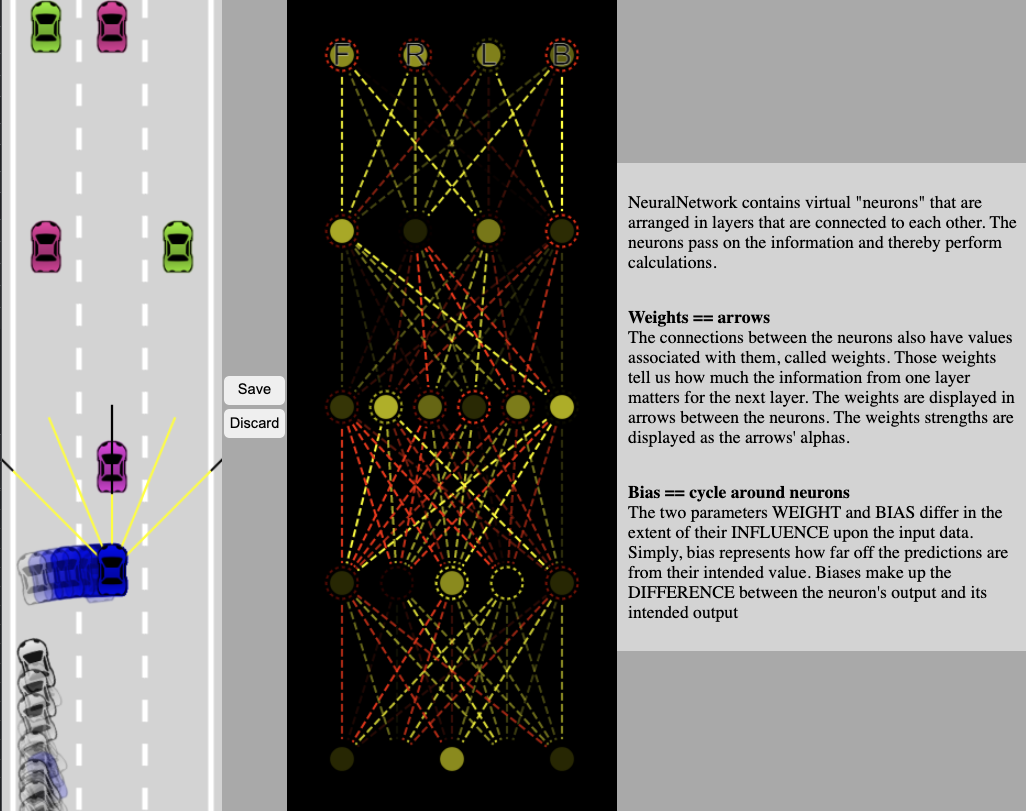
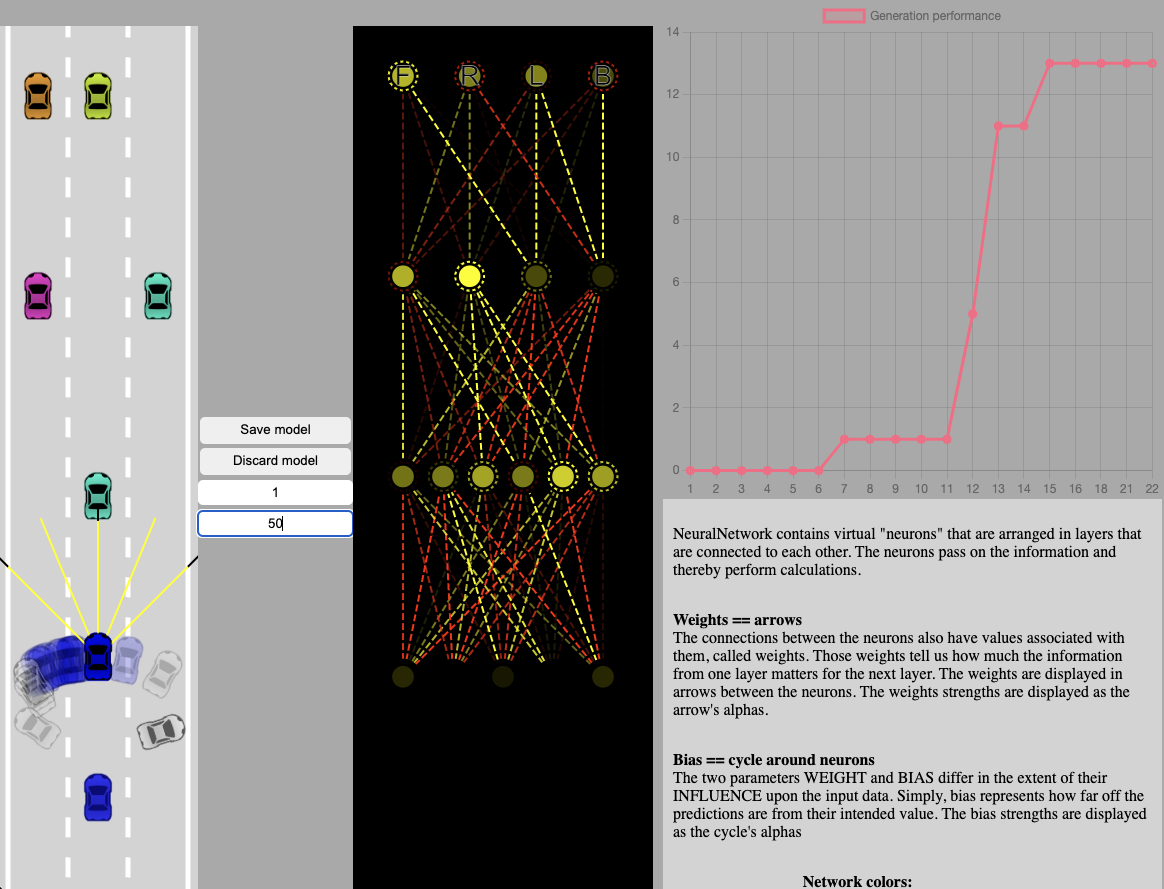
Add generation performance chart

diff --git a/index.html b/index.html
@@ -12,29 +12,33 @@
     <input id="population" placeholder="Total of population" onkeyup="updatePopulation(this)">
 </div>
 <canvas id="networkCanvas"></canvas>
-<div id="nn-info">
-    <p>
-        NeuralNetwork contains virtual "neurons" that are arranged in layers that are connected to each other. The neurons pass on the information and thereby perform calculations.
-    </p>
-    <p>
-        <strong>Weights == arrows</strong> <br>
-        The connections between the neurons also have values associated with them, called weights.
-        Those weights tell us how much the information from one layer matters for the next layer.
-        The weights are displayed in arrows between the neurons. The weights strengths are displayed
-        as the arrow's alphas.
-    </p>
-    <p>
-        <strong>Bias == cycle around neurons</strong> <br>
-        The two parameters WEIGHT and BIAS differ in the extent of their INFLUENCE upon the input data.
-        Simply, bias represents how far off the predictions are from their intended value.
-        The bias strengths are displayed as the cycle's alphas
-    </p>
+<section style="padding: 10px">
+    <canvas id="myChart" width="400" height="400"></canvas>
+    <div id="nn-info">
+        <p>
+            NeuralNetwork contains virtual "neurons" that are arranged in layers that are connected to each other. The neurons pass on the information and thereby perform calculations.
+        </p>
+        <p>
+            <strong>Weights == arrows</strong> <br>
+            The connections between the neurons also have values associated with them, called weights.
+            Those weights tell us how much the information from one layer matters for the next layer.
+            The weights are displayed in arrows between the neurons. The weights strengths are displayed
+            as the arrow's alphas.
+        </p>
+        <p>
+            <strong>Bias == cycle around neurons</strong> <br>
+            The two parameters WEIGHT and BIAS differ in the extent of their INFLUENCE upon the input data.
+            Simply, bias represents how far off the predictions are from their intended value.
+            The bias strengths are displayed as the cycle's alphas
+        </p>
 
-    <p><strong>Network colors:</strong> <br>
-        RED elements are negative values<br>
-        YELLOW are positive values
-    </p>
-</div>
+        <p><strong>Network colors:</strong> <br>
+            RED elements are negative values<br>
+            YELLOW are positive values
+        </p>
+    </div>
+</section>
+<script src="https://cdn.jsdelivr.net/npm/chart.js@3.9.1/dist/chart.min.js"></script>
 <script src="networkVisualizer.js"></script>
 <script src="matrix.js"></script>
 <script src="network.js"></script>

diff --git a/main.js b/main.js
@@ -1,23 +1,26 @@
-setTimeout(() => {
-    // reload the page after 5 minutes to avoid memory leaks
-    location.reload();
-}, 1000 * 60 * 5);
-
 let populationCount = 500;
 let gameStepFrameCount = 1;
 const networkVisualizer = new NetworkVisualizer(document.getElementById("networkCanvas"));
-const game = new Game(document.getElementById("carCanvas"));
-console.log("Training genetic algorithm");
+let chart = getChart()
+const game = new Game(document.getElementById("carCanvas"), (game) => {
+    chart.data.labels.push(game.generationCounts);
+    const [mom, dad] = game.gaPopulation.selection();
+    console.log(mom.totalCarsOverTaken)
+    chart.data.datasets.forEach((dataset) => {
+        dataset.data.push(mom.totalCarsOverTaken);
+    });
+    chart.update();
+});
 trainGeneticAlgo();
 
 function updateFrameLoop(input) {
-    gameStepFrameCount = input.value == "" ? 1 : input.value;
+    gameStepFrameCount = input.value == "" ? 1 : parseInt(input.value);
 }
 
 function updatePopulation(input) {
-    populationCount = input.value == "" ? 500 : input.value;
+    populationCount = input.value == "" ? 500 : parseInt(input.value);
     populationCount = populationCount < 2 ? 2 : populationCount;
-    game.gaPopulation = new CarPopulation(parseInt(populationCount), 0.1);
+    game.gaPopulation = new CarPopulation(populationCount, 0.1);
     game.init();
 }
 
@@ -46,4 +49,35 @@ function trainGeneticAlgo(time) {
     }
 
     animate(time)
+}
+
+function getChart() {
+    const ctx = document.getElementById('myChart').getContext('2d');
+    const myChart = new Chart(ctx, {
+        type: 'line',
+        options: {
+            responsive: true,
+            scales: {
+                y: {
+                    beginAtZero: true
+                }
+            }
+        },
+        data: {
+            labels: [],
+            datasets: [{
+                label: 'Generation performance',
+                data: [],
+                borderWidth: 3,
+                backgroundColor: [
+                    'rgba(255, 99, 132, 0.2)',
+                ],
+                borderColor: [
+                    'rgba(255, 99, 132, 1)',
+                ],
+            }],
+            borderWidth: 5
+        },
+    });
+    return myChart
 }

diff --git a/game.js b/game.js
@@ -1,6 +1,7 @@
 class Game {
-    constructor(canvas) {
+    constructor(canvas, onGenerationEnd) {
         this.carCanvas = canvas
+        this.onGenerationEnd = onGenerationEnd;
         this.carCanvas.width = 200;
         this.carCtx = this.carCanvas.getContext("2d");
         this.road = new Road(this.carCanvas.width / 2, this.carCanvas.width * 0.9);
@@ -70,12 +71,14 @@ class Game {
         const gameOver = this.gaPopulation.isAlive()
         if (gameOver) {
             save()
+            this.onGenerationEnd(this);
             this.init()
             return true
         }
 
         if (this.totalCarsOvertaken - 2 > totalCarsOverTaken) {
             save()
+            this.onGenerationEnd(this);
             this.init()
             return true;
         }
@@ -87,6 +90,7 @@ class Game {
         }
         if (this.totalFramesWithoutOvertaking > 500) {
             save()
+            this.onGenerationEnd(this);
             this.init()
             return true;
         }

diff --git a/population.js b/population.js
@@ -21,6 +21,10 @@ class CarPopulation {
         })
     }
 
+    /**
+     * Get the first car in the population
+     * @returns {Car}
+     */
     getFirstCar() {
         return this.population.sort((a, b) => a.y < b.y ? -1 : 1)[0];
     }

diff --git a/style.css b/style.css
@@ -1,7 +1,6 @@
 body{
     margin:0;
     background:darkgray;
-    overflow:hidden;
     display:flex;
     justify-content:center;
     align-items:center;
